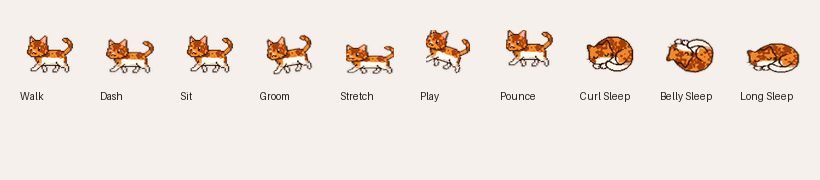
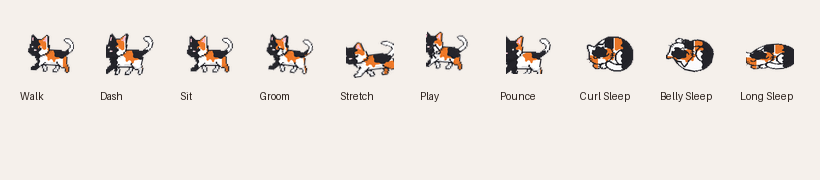
feat: 各モーション専用ベース画像（歩行・ダッシュ・毛づくろい・伸び・じゃれ・飛びつき・ヘソ天寝・のびのび寝）を個別生成＆テクスチャパイプライン統合

diff --git a/PomodoroTimer/natural_cat_generator.py b/PomodoroTimer/natural_cat_generator.py
@@ -228,117 +228,135 @@ def generate_natural_cat(rgba_img, cat_type):
     return Image.fromarray(out_arr, mode="RGBA")
 
 
-def generate_cat_poses(base_awake, base_sleep, cat_type):
+def generate_cat_poses(base_images_or_awake, base_sleep_or_none, cat_type):
     """
-    1種類の猫から、動いている時・寝ている時の全レパートリー（仰向けヘソ天、伸び寝、毛づくろい、じゃれ、伸び、歩行、ダッシュ等）のスプライト辞書を生成
+    動いている時・寝ている時の全モーション専用ベース画像から、15種類の猫固有の極上テクスチャを個別合成したスプライト辞書を生成
     """
-    tex_awake = generate_natural_cat(base_awake, cat_type)
-    tex_sleep = generate_natural_cat(base_sleep, cat_type)
-    
-    # 基本サイズ 48x48
-    aw_base = tex_awake.resize((48, 48), Image.Resampling.LANCZOS)
-    sl_base = tex_sleep.resize((48, 48), Image.Resampling.LANCZOS)
-    
+    if isinstance(base_images_or_awake, dict):
+        base_dict = base_images_or_awake
+    else:
+        # 後方互換性
+        aw = base_images_or_awake
+        sl = base_sleep_or_none
+        base_dict = {
+            "awake": aw,
+            "sleep": sl,
+            "walk_0": aw,
+            "walk_1": aw,
+            "dash": aw,
+            "groom": aw,
+            "stretch": aw,
+            "play": aw,
+            "pounce": aw,
+            "sleep_belly": sl,
+            "sleep_stretch": sl
+        }
+        
     poses = {}
     
     # 1. 立ち・座り (sit)
-    poses["sit_r"] = aw_base.transpose(Image.FLIP_LEFT_RIGHT)
-    poses["sit_l"] = aw_base
+    tex_sit = generate_natural_cat(base_dict["awake"], cat_type).resize((48, 48), Image.Resampling.LANCZOS)
+    poses["sit_r"] = tex_sit.transpose(Image.FLIP_LEFT_RIGHT)
+    poses["sit_l"] = tex_sit
     poses["awake_r"] = poses["sit_r"]
     poses["awake_l"] = poses["sit_l"]
     
-    # 2. 歩行 (walk) - 2フレーム足踏み・体揺れ
-    w_f0 = aw_base.copy()
-    w_f1 = Image.new("RGBA", (48, 48), (0, 0, 0, 0))
-    w_f1.paste(aw_base.resize((48, 46), Image.Resampling.LANCZOS), (0, 2))
-    poses["walk_l_0"] = w_f0
-    poses["walk_l_1"] = w_f1
-    poses["walk_r_0"] = w_f0.transpose(Image.FLIP_LEFT_RIGHT)
-    poses["walk_r_1"] = w_f1.transpose(Image.FLIP_LEFT_RIGHT)
+    # 2. 歩行 (walk) - 専用歩行ベース画像 0 & 1
+    tex_w0 = generate_natural_cat(base_dict["walk_0"], cat_type).resize((48, 48), Image.Resampling.LANCZOS)
+    tex_w1 = generate_natural_cat(base_dict["walk_1"], cat_type).resize((48, 48), Image.Resampling.LANCZOS)
+    poses["walk_r_0"] = tex_w0.transpose(Image.FLIP_LEFT_RIGHT)
+    poses["walk_r_1"] = tex_w1.transpose(Image.FLIP_LEFT_RIGHT)
+    poses["walk_l_0"] = tex_w0
+    poses["walk_l_1"] = tex_w1
     
-    # 3. ダッシュ (dash) - 前傾小走り
+    # 3. ダッシュ (dash) - 専用疾走ベース画像
+    tex_dash = generate_natural_cat(base_dict["dash"], cat_type).resize((50, 46), Image.Resampling.LANCZOS)
     d_f0 = Image.new("RGBA", (48, 48), (0, 0, 0, 0))
-    d_f0.paste(aw_base.resize((50, 44), Image.Resampling.LANCZOS), (-1, 4))
+    d_f0.paste(tex_dash, (-1, 2))
     d_f1 = Image.new("RGBA", (48, 48), (0, 0, 0, 0))
-    d_f1.paste(aw_base.resize((52, 42), Image.Resampling.LANCZOS), (-2, 6))
-    poses["dash_l_0"] = d_f0
-    poses["dash_l_1"] = d_f1
+    d_f1.paste(tex_dash.resize((50, 44), Image.Resampling.LANCZOS), (-1, 4))
     poses["dash_r_0"] = d_f0.transpose(Image.FLIP_LEFT_RIGHT)
     poses["dash_r_1"] = d_f1.transpose(Image.FLIP_LEFT_RIGHT)
+    poses["dash_l_0"] = d_f0
+    poses["dash_l_1"] = d_f1
     
-    # 4. 毛づくろい (groom / 顔洗い) - 前足を顔の横に上げてごしごし
-    gr_0 = aw_base.copy()
+    # 4. 毛づくろい (groom / 顔洗い) - 専用前足持ち上げベース画像
+    tex_gr = generate_natural_cat(base_dict["groom"], cat_type).resize((48, 48), Image.Resampling.LANCZOS)
+    gr_0 = tex_gr.copy()
     gr_1 = Image.new("RGBA", (48, 48), (0, 0, 0, 0))
-    gr_1.paste(aw_base.rotate(-10, resample=Image.Resampling.BICUBIC), (0, 0))
+    gr_1.paste(tex_gr.rotate(-8, resample=Image.Resampling.BICUBIC), (0, 0))
     gr_2 = Image.new("RGBA", (48, 48), (0, 0, 0, 0))
-    gr_2.paste(aw_base.rotate(8, resample=Image.Resampling.BICUBIC), (0, 0))
-    poses["groom_l_0"] = gr_0
-    poses["groom_l_1"] = gr_1
-    poses["groom_l_2"] = gr_2
+    gr_2.paste(tex_gr.rotate(6, resample=Image.Resampling.BICUBIC), (0, 0))
     poses["groom_r_0"] = gr_0.transpose(Image.FLIP_LEFT_RIGHT)
     poses["groom_r_1"] = gr_1.transpose(Image.FLIP_LEFT_RIGHT)
     poses["groom_r_2"] = gr_2.transpose(Image.FLIP_LEFT_RIGHT)
+    poses["groom_l_0"] = gr_0
+    poses["groom_l_1"] = gr_1
+    poses["groom_l_2"] = gr_2
     
-    # 5. 猫の伸びポーズ (stretch) - 前足をぐーっと伸ばしてお尻アップ
+    # 5. 猫の伸びポーズ (stretch) - 専用背伸びベース画像
+    tex_st = generate_natural_cat(base_dict["stretch"], cat_type).resize((52, 42), Image.Resampling.LANCZOS)
     st_0 = Image.new("RGBA", (48, 48), (0, 0, 0, 0))
-    st_0.paste(aw_base.resize((54, 40), Image.Resampling.LANCZOS), (-3, 8))
+    st_0.paste(tex_st, (-2, 6))
     st_1 = Image.new("RGBA", (48, 48), (0, 0, 0, 0))
-    st_1.paste(aw_base.resize((56, 38), Image.Resampling.LANCZOS), (-4, 10))
-    poses["stretch_l_0"] = st_0
-    poses["stretch_l_1"] = st_1
+    st_1.paste(tex_st.resize((54, 40), Image.Resampling.LANCZOS), (-3, 8))
     poses["stretch_r_0"] = st_0.transpose(Image.FLIP_LEFT_RIGHT)
     poses["stretch_r_1"] = st_1.transpose(Image.FLIP_LEFT_RIGHT)
+    poses["stretch_l_0"] = st_0
+    poses["stretch_l_1"] = st_1
     
-    # 6. じゃれる・チョイチョイ (play / 猫パンチ)
-    pl_0 = aw_base.copy()
+    # 6. じゃれる・チョイチョイ (play) - 専用前足浮かしベース画像
+    tex_pl = generate_natural_cat(base_dict["play"], cat_type).resize((48, 48), Image.Resampling.LANCZOS)
+    pl_0 = tex_pl.copy()
     pl_1 = Image.new("RGBA", (48, 48), (0, 0, 0, 0))
-    pl_1.paste(aw_base.rotate(14, resample=Image.Resampling.BICUBIC), (2, -2))
+    pl_1.paste(tex_pl.rotate(8, resample=Image.Resampling.BICUBIC), (2, -2))
     pl_2 = Image.new("RGBA", (48, 48), (0, 0, 0, 0))
-    pl_2.paste(aw_base.rotate(18, resample=Image.Resampling.BICUBIC), (4, -4))
-    poses["play_l_0"] = pl_0
-    poses["play_l_1"] = pl_1
-    poses["play_l_2"] = pl_2
+    pl_2.paste(tex_pl.rotate(14, resample=Image.Resampling.BICUBIC), (3, -3))
     poses["play_r_0"] = pl_0.transpose(Image.FLIP_LEFT_RIGHT)
     poses["play_r_1"] = pl_1.transpose(Image.FLIP_LEFT_RIGHT)
     poses["play_r_2"] = pl_2.transpose(Image.FLIP_LEFT_RIGHT)
+    poses["play_l_0"] = pl_0
+    poses["play_l_1"] = pl_1
+    poses["play_l_2"] = pl_2
     
-    # 7. 飛びつき・跳ねる (pounce)
+    # 7. 飛びつき・跳ねる (pounce) - 専用ジャンプベース画像
+    tex_po = generate_natural_cat(base_dict["pounce"], cat_type).resize((48, 48), Image.Resampling.LANCZOS)
     po_0 = Image.new("RGBA", (48, 48), (0, 0, 0, 0))
-    po_0.paste(aw_base.resize((48, 40), Image.Resampling.LANCZOS), (0, 8))
+    po_0.paste(tex_po.resize((48, 42), Image.Resampling.LANCZOS), (0, 6))
     po_1 = Image.new("RGBA", (48, 48), (0, 0, 0, 0))
-    po_1.paste(aw_base.resize((50, 48), Image.Resampling.LANCZOS), (0, -6))
-    poses["pounce_l_0"] = po_0
-    poses["pounce_l_1"] = po_1
+    po_1.paste(tex_po, (0, -4))
     poses["pounce_r_0"] = po_0.transpose(Image.FLIP_LEFT_RIGHT)
     poses["pounce_r_1"] = po_1.transpose(Image.FLIP_LEFT_RIGHT)
+    poses["pounce_l_0"] = po_0
+    poses["pounce_l_1"] = po_1
     
     # --- 寝姿レパートリー (Sleep Poses) ---
     
-    # A. 丸まり寝 (sleep_curl) - すやすや呼吸 (2フレーム)
-    sl_curl_0 = sl_base.copy()
-    sl_curl_1 = Image.new("RGBA", (48, 48), (0, 0, 0, 0))
-    sl_curl_1.paste(sl_base.resize((48, 44), Image.Resampling.LANCZOS), (0, 4))
-    poses["sleep_curl_0"] = sl_curl_0
-    poses["sleep_curl_1"] = sl_curl_1
-    poses["sleep_0"] = sl_curl_0
-    poses["sleep_1"] = sl_curl_1
+    # A. 丸まり寝 (sleep_curl) - 専用丸まりベース画像 + 呼吸
+    tex_sl = generate_natural_cat(base_dict["sleep"], cat_type).resize((48, 48), Image.Resampling.LANCZOS)
+    sl_c0 = tex_sl.copy()
+    sl_c1 = Image.new("RGBA", (48, 48), (0, 0, 0, 0))
+    sl_c1.paste(tex_sl.resize((48, 44), Image.Resampling.LANCZOS), (0, 4))
+    poses["sleep_curl_0"] = sl_c0
+    poses["sleep_curl_1"] = sl_c1
+    poses["sleep_0"] = sl_c0
+    poses["sleep_1"] = sl_c1
     
-    # B. 仰向けヘソ天寝 (sleep_belly) - お腹を上に向けて手足を広げて寝る
-    sl_belly_base = sl_base.transpose(Image.FLIP_TOP_BOTTOM).rotate(-8, resample=Image.Resampling.BICUBIC)
-    sl_belly_0 = Image.new("RGBA", (48, 48), (0, 0, 0, 0))
-    sl_belly_0.paste(sl_belly_base.resize((48, 46), Image.Resampling.LANCZOS), (0, 2))
-    sl_belly_1 = Image.new("RGBA", (48, 48), (0, 0, 0, 0))
-    sl_belly_1.paste(sl_belly_base.resize((48, 44), Image.Resampling.LANCZOS), (0, 4))
-    poses["sleep_belly_0"] = sl_belly_0
-    poses["sleep_belly_1"] = sl_belly_1
+    # B. 仰向けヘソ天寝 (sleep_belly) - 専用ヘソ天ベース画像 + 呼吸
+    tex_sb = generate_natural_cat(base_dict["sleep_belly"], cat_type).resize((48, 48), Image.Resampling.LANCZOS)
+    sb_0 = tex_sb.copy()
+    sb_1 = Image.new("RGBA", (48, 48), (0, 0, 0, 0))
+    sb_1.paste(tex_sb.resize((48, 45), Image.Resampling.LANCZOS), (0, 3))
+    poses["sleep_belly_0"] = sb_0
+    poses["sleep_belly_1"] = sb_1
     
-    # C. 体を広げて伸ばして寝る (sleep_stretch) - のびのび寝
-    sl_str_base = Image.new("RGBA", (54, 48), (0, 0, 0, 0))
-    sl_str_base.paste(sl_base.resize((54, 40), Image.Resampling.LANCZOS), (0, 8))
-    sl_str_0 = sl_str_base
-    sl_str_1 = Image.new("RGBA", (54, 48), (0, 0, 0, 0))
-    sl_str_1.paste(sl_base.resize((54, 38), Image.Resampling.LANCZOS), (0, 10))
-    poses["sleep_stretch_0"] = sl_str_0
-    poses["sleep_stretch_1"] = sl_str_1
+    # C. 体を広げて伸ばして寝る (sleep_stretch) - 専用のびのびベース画像 + 呼吸
+    tex_ss = generate_natural_cat(base_dict["sleep_stretch"], cat_type).resize((52, 44), Image.Resampling.LANCZOS)
+    ss_0 = Image.new("RGBA", (48, 48), (0, 0, 0, 0))
+    ss_0.paste(tex_ss, (-2, 4))
+    ss_1 = Image.new("RGBA", (48, 48), (0, 0, 0, 0))
+    ss_1.paste(tex_ss.resize((52, 42), Image.Resampling.LANCZOS), (-2, 6))
+    poses["sleep_stretch_0"] = ss_0
+    poses["sleep_stretch_1"] = ss_1
     
     return poses

diff --git a/PomodoroTimer/pomodoro.py b/PomodoroTimer/pomodoro.py
@@ -267,10 +267,31 @@ class PomodoroApp:
             else:
                 self.base_sleep = make_transparent(Image.open(sleep_jpg))
                 
+            # 各モーション・寝相専用ベーススプライトのロード
+            def load_or_fallback(fname, fallback):
+                fpath = os.path.join(base_dir, fname)
+                if os.path.exists(fpath):
+                    return Image.open(fpath).convert("RGBA")
+                return fallback
+                
+            base_pose_images = {
+                "awake": self.base_awake,
+                "sleep": self.base_sleep,
+                "walk_0": load_or_fallback("cat_walk_0.png", self.base_awake),
+                "walk_1": load_or_fallback("cat_walk_1.png", self.base_awake),
+                "dash": load_or_fallback("cat_dash.png", self.base_awake),
+                "groom": load_or_fallback("cat_groom.png", self.base_awake),
+                "stretch": load_or_fallback("cat_stretch.png", self.base_awake),
+                "play": load_or_fallback("cat_play.png", self.base_awake),
+                "pounce": load_or_fallback("cat_pounce.png", self.base_awake),
+                "sleep_belly": load_or_fallback("cat_sleep_belly.png", self.base_sleep),
+                "sleep_stretch": load_or_fallback("cat_sleep_stretch.png", self.base_sleep)
+            }
+                
             self.cat_textures = {}
             for cat_info in AVAILABLE_CATS:
                 c_id = cat_info["id"]
-                raw_poses = generate_cat_poses(self.base_awake, self.base_sleep, c_id)
+                raw_poses = generate_cat_poses(base_pose_images, None, c_id)
                 self.cat_textures[c_id] = {k: ImageTk.PhotoImage(v) for k, v in raw_poses.items()}
                 
             self._update_widget_cat_frames()
